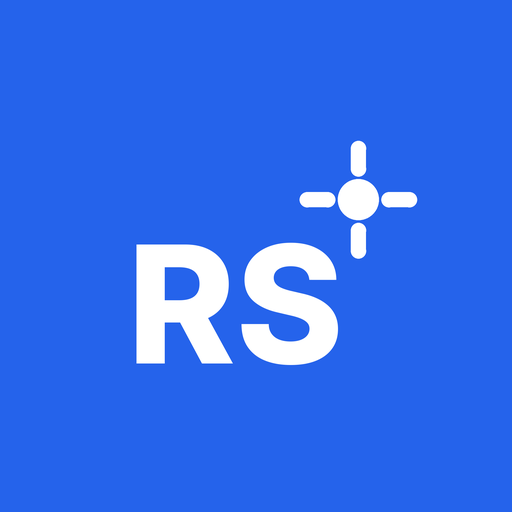
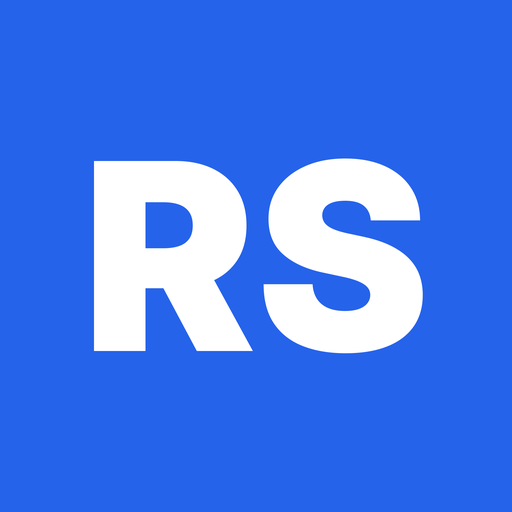
Redraw the RS mark as a bold monogram, from one include
Inter Black "RS" filling its tile replaces the small "RS" with a crosshair
sparkle, which turned to noise at navbar and tab size. The fifteen pasted
copies of the inline SVG become includes/rs_mark.html; the app icons are
redrawn to match. Landing captures and the share card are re-shot, and
landing_shots.py now dismisses the one-time install card before capturing.

Claude-Session: https://claude.ai/code/session_01H86mCgziRATYhTT6JvfZRs

Changed region(s): [[0.1562, 0.25, 0.8438, 0.7188]]

diff --git a/templates/landing.html b/templates/landing.html
@@ -42,11 +42,7 @@
             <div class="flex items-center justify-between">
                 <a href="/" class="flex items-center space-x-2">
                     <div class="w-9 h-9 bg-blue-600 rounded-lg flex items-center justify-center">
-                        <svg viewBox="0 0 40 40" class="w-6 h-6">
-                            <text x="20" y="26" text-anchor="middle" fill="white" font-size="16" font-weight="800" font-family="Inter, sans-serif">RS</text>
-                            <circle cx="32" cy="10" r="2" fill="white"/>
-                            <path d="M32 5 L32 7 M32 13 L32 15 M27 10 L29 10 M35 10 L37 10" stroke="white" stroke-width="1.5" stroke-linecap="round"/>
-                        </svg>
+                        {% include "includes/rs_mark.html" with size="w-6 h-6" %}
                     </div>
                     <span class="text-xl font-bold text-gray-900">RS Systems</span>
                 </a>
@@ -421,11 +417,7 @@
             <div class="flex flex-col md:flex-row justify-between items-center">
                 <div class="flex items-center space-x-2 mb-6 md:mb-0">
                     <div class="w-9 h-9 bg-blue-600 rounded-lg flex items-center justify-center">
-                        <svg viewBox="0 0 40 40" class="w-6 h-6">
-                            <text x="20" y="26" text-anchor="middle" fill="white" font-size="16" font-weight="800" font-family="Inter, sans-serif">RS</text>
-                            <circle cx="32" cy="10" r="2" fill="white"/>
-                            <path d="M32 5 L32 7 M32 13 L32 15 M27 10 L29 10 M35 10 L37 10" stroke="white" stroke-width="1.5" stroke-linecap="round"/>
-                        </svg>
+                        {% include "includes/rs_mark.html" with size="w-6 h-6" %}
                     </div>
                     <span class="text-lg font-bold text-white">RS Systems</span>
                 </div>

diff --git a/templates/saas/base_public.html b/templates/saas/base_public.html
@@ -26,11 +26,7 @@
             <div class="flex justify-between h-16 items-center">
                 <a href="/" class="flex items-center space-x-2">
                     <div class="w-8 h-8 bg-blue-600 rounded-lg flex items-center justify-center">
-                        <svg viewBox="0 0 40 40" class="w-5 h-5">
-                            <text x="20" y="26" text-anchor="middle" fill="white" font-size="16" font-weight="800" font-family="Inter, sans-serif">RS</text>
-                            <circle cx="32" cy="10" r="2" fill="white"/>
-                            <path d="M32 5 L32 7 M32 13 L32 15 M27 10 L29 10 M35 10 L37 10" stroke="white" stroke-width="1.5" stroke-linecap="round"/>
-                        </svg>
+                        {% include "includes/rs_mark.html" with size="w-5 h-5" %}
                     </div>
                     <span class="text-xl font-bold text-gray-900">RS Systems</span>
                 </a>
@@ -81,11 +77,7 @@
             <div class="flex flex-col md:flex-row justify-between items-center">
                 <div class="flex items-center space-x-2 mb-4 md:mb-0">
                     <div class="w-6 h-6 bg-blue-600 rounded flex items-center justify-center">
-                        <svg viewBox="0 0 40 40" class="w-4 h-4">
-                            <text x="20" y="26" text-anchor="middle" fill="white" font-size="16" font-weight="800" font-family="Inter, sans-serif">RS</text>
-                            <circle cx="32" cy="10" r="2" fill="white"/>
-                            <path d="M32 5 L32 7 M32 13 L32 15 M27 10 L29 10 M35 10 L37 10" stroke="white" stroke-width="1.5" stroke-linecap="round"/>
-                        </svg>
+                        {% include "includes/rs_mark.html" with size="w-4 h-4" %}
                     </div>
                     <span class="font-semibold text-gray-900">RS Systems</span>
                 </div>

diff --git a/templates/saas/signup.html b/templates/saas/signup.html
@@ -19,11 +19,7 @@
         </div>
         <div class="max-w-md text-center relative z-10 px-8">
             <div class="w-20 h-20 bg-white/20 rounded-2xl flex items-center justify-center mx-auto mb-8">
-                <svg viewBox="0 0 40 40" class="w-12 h-12">
-                    <text x="20" y="26" text-anchor="middle" fill="white" font-size="16" font-weight="800" font-family="Inter, sans-serif">RS</text>
-                    <circle cx="32" cy="10" r="2" fill="white"/>
-                    <path d="M32 5 L32 7 M32 13 L32 15 M27 10 L29 10 M35 10 L37 10" stroke="white" stroke-width="1.5" stroke-linecap="round"/>
-                </svg>
+                {% include "includes/rs_mark.html" with size="w-12 h-12" %}
             </div>
             <h1 class="text-4xl font-bold text-white mb-4">RS Systems</h1>
             <p class="text-xl text-brand-100 mb-8">The complete platform for windshield repair & replacement shops.</p>
@@ -62,11 +58,7 @@
             <!-- Mobile branding -->
             <div class="lg:hidden text-center mb-8">
                 <div class="w-14 h-14 bg-brand-600 rounded-xl flex items-center justify-center mx-auto mb-4">
-                    <svg viewBox="0 0 40 40" class="w-8 h-8">
-                        <text x="20" y="26" text-anchor="middle" fill="white" font-size="16" font-weight="800" font-family="Inter, sans-serif">RS</text>
-                        <circle cx="32" cy="10" r="2" fill="white"/>
-                        <path d="M32 5 L32 7 M32 13 L32 15 M27 10 L29 10 M35 10 L37 10" stroke="white" stroke-width="1.5" stroke-linecap="round"/>
-                    </svg>
+                    {% include "includes/rs_mark.html" with size="w-8 h-8" %}
                 </div>
                 <h1 class="text-3xl font-bold text-gray-900">RS Systems</h1>
                 <p class="text-gray-600 mt-1">Start your free 30-day trial</p>

diff --git a/templates/saas/login.html b/templates/saas/login.html
@@ -13,11 +13,7 @@
         </div>
         <div class="max-w-md text-center relative z-10 px-8">
             <div class="w-20 h-20 bg-white/20 rounded-2xl flex items-center justify-center mx-auto mb-8">
-                <svg viewBox="0 0 40 40" class="w-12 h-12">
-                    <text x="20" y="26" text-anchor="middle" fill="white" font-size="16" font-weight="800" font-family="Inter, sans-serif">RS</text>
-                    <circle cx="32" cy="10" r="2" fill="white"/>
-                    <path d="M32 5 L32 7 M32 13 L32 15 M27 10 L29 10 M35 10 L37 10" stroke="white" stroke-width="1.5" stroke-linecap="round"/>
-                </svg>
+                {% include "includes/rs_mark.html" with size="w-12 h-12" %}
             </div>
             <h1 class="text-4xl font-bold text-white mb-4">RS Systems</h1>
             <p class="text-xl text-brand-100 mb-8">The complete platform for windshield repair & replacement shops.</p>
@@ -56,11 +52,7 @@
             <!-- Mobile branding -->
             <div class="lg:hidden text-center mb-8">
                 <div class="w-14 h-14 bg-brand-600 rounded-xl flex items-center justify-center mx-auto mb-4">
-                    <svg viewBox="0 0 40 40" class="w-8 h-8">
-                        <text x="20" y="26" text-anchor="middle" fill="white" font-size="16" font-weight="800" font-family="Inter, sans-serif">RS</text>
-                        <circle cx="32" cy="10" r="2" fill="white"/>
-                        <path d="M32 5 L32 7 M32 13 L32 15 M27 10 L29 10 M35 10 L37 10" stroke="white" stroke-width="1.5" stroke-linecap="round"/>
-                    </svg>
+                    {% include "includes/rs_mark.html" with size="w-8 h-8" %}
                 </div>
                 <h1 class="text-3xl font-bold text-gray-900">RS Systems</h1>
                 <p class="text-gray-600 mt-1">Log in to your account</p>

diff --git a/templates/saas/invite_accept.html b/templates/saas/invite_accept.html
@@ -17,11 +17,7 @@
         </div>
         <div class="max-w-md text-center relative z-10 px-8">
             <div class="w-20 h-20 bg-white/20 rounded-2xl flex items-center justify-center mx-auto mb-8">
-                <svg viewBox="0 0 40 40" class="w-12 h-12">
-                    <text x="20" y="26" text-anchor="middle" fill="white" font-size="16" font-weight="800" font-family="Inter, sans-serif">RS</text>
-                    <circle cx="32" cy="10" r="2" fill="white"/>
-                    <path d="M32 5 L32 7 M32 13 L32 15 M27 10 L29 10 M35 10 L37 10" stroke="white" stroke-width="1.5" stroke-linecap="round"/>
-                </svg>
+                {% include "includes/rs_mark.html" with size="w-12 h-12" %}
             </div>
             <h1 class="text-4xl font-bold text-white mb-4">RS Systems</h1>
             <p class="text-xl text-brand-100 mb-8">You've been invited to join a team!</p>
@@ -54,11 +50,7 @@
             <!-- Mobile branding -->
             <div class="lg:hidden text-center mb-8">
                 <div class="w-14 h-14 bg-brand-600 rounded-xl flex items-center justify-center mx-auto mb-4">
-                    <svg viewBox="0 0 40 40" class="w-8 h-8">
-                        <text x="20" y="26" text-anchor="middle" fill="white" font-size="16" font-weight="800" font-family="Inter, sans-serif">RS</text>
-                        <circle cx="32" cy="10" r="2" fill="white"/>
-                        <path d="M32 5 L32 7 M32 13 L32 15 M27 10 L29 10 M35 10 L37 10" stroke="white" stroke-width="1.5" stroke-linecap="round"/>
-                    </svg>
+                    {% include "includes/rs_mark.html" with size="w-8 h-8" %}
                 </div>
                 <h1 class="text-3xl font-bold text-gray-900">RS Systems</h1>
             </div>

diff --git a/templates/base_app.html b/templates/base_app.html
@@ -55,11 +55,7 @@
                         <img src="{{ request.tenant.logo.url }}" alt="{{ request.tenant.name }}" class="h-11 sm:h-14 w-auto max-w-[9rem] sm:max-w-[15rem] object-contain flex-shrink-0">
                         {% else %}
                         <div class="w-10 h-10 bg-brand-600 rounded-lg flex items-center justify-center flex-shrink-0">
-                            <svg viewBox="0 0 40 40" class="w-6 h-6">
-                                <text x="20" y="26" text-anchor="middle" fill="white" font-size="16" font-weight="800" font-family="Inter, sans-serif">RS</text>
-                                <circle cx="32" cy="10" r="2" fill="white"/>
-                                <path d="M32 5 L32 7 M32 13 L32 15 M27 10 L29 10 M35 10 L37 10" stroke="white" stroke-width="1.5" stroke-linecap="round"/>
-                            </svg>
+                            {% include "includes/rs_mark.html" with size="w-6 h-6" %}
                         </div>
                         {% endif %}
                         <span class="text-xl font-bold text-gray-900 hidden sm:inline truncate max-w-[14rem]">

diff --git a/templates/registration/password_reset_form.html b/templates/registration/password_reset_form.html
@@ -7,11 +7,7 @@
     <div class="w-full max-w-md">
         <div class="text-center mb-8">
             <div class="w-14 h-14 bg-brand-600 rounded-xl flex items-center justify-center mx-auto mb-4">
-                <svg viewBox="0 0 40 40" class="w-8 h-8">
-                    <text x="20" y="26" text-anchor="middle" fill="white" font-size="16" font-weight="800" font-family="Inter, sans-serif">RS</text>
-                    <circle cx="32" cy="10" r="2" fill="white"/>
-                    <path d="M32 5 L32 7 M32 13 L32 15 M27 10 L29 10 M35 10 L37 10" stroke="white" stroke-width="1.5" stroke-linecap="round"/>
-                </svg>
+                {% include "includes/rs_mark.html" with size="w-8 h-8" %}
             </div>
             <h1 class="text-2xl font-bold text-gray-900">Reset your password</h1>
             <p class="text-gray-500 mt-2">Enter your email address and we'll send you a link to reset your password.</p>

diff --git a/templates/404.html b/templates/404.html
@@ -14,11 +14,7 @@
             <div class="flex items-center h-16">
                 <a href="/" class="flex items-center space-x-2">
                     <div class="w-8 h-8 bg-brand-600 rounded-lg flex items-center justify-center">
-                        <svg viewBox="0 0 40 40" class="w-5 h-5">
-                            <text x="20" y="26" text-anchor="middle" fill="white" font-size="16" font-weight="800" font-family="Inter, sans-serif">RS</text>
-                            <circle cx="32" cy="10" r="2" fill="white"/>
-                            <path d="M32 5 L32 7 M32 13 L32 15 M27 10 L29 10 M35 10 L37 10" stroke="white" stroke-width="1.5" stroke-linecap="round"/>
-                        </svg>
+                        {% include "includes/rs_mark.html" with size="w-5 h-5" %}
                     </div>
                     <span class="text-xl font-bold text-gray-900">RS Systems</span>
                 </a>

diff --git a/templates/500.html b/templates/500.html
@@ -14,11 +14,7 @@
             <div class="flex items-center h-16">
                 <a href="/" class="flex items-center space-x-2">
                     <div class="w-8 h-8 bg-brand-600 rounded-lg flex items-center justify-center">
-                        <svg viewBox="0 0 40 40" class="w-5 h-5">
-                            <text x="20" y="26" text-anchor="middle" fill="white" font-size="16" font-weight="800" font-family="Inter, sans-serif">RS</text>
-                            <circle cx="32" cy="10" r="2" fill="white"/>
-                            <path d="M32 5 L32 7 M32 13 L32 15 M27 10 L29 10 M35 10 L37 10" stroke="white" stroke-width="1.5" stroke-linecap="round"/>
-                        </svg>
+                        {% include "includes/rs_mark.html" with size="w-5 h-5" %}
                     </div>
                     <span class="text-xl font-bold text-gray-900">RS Systems</span>
                 </a>

diff --git a/templates/saas/pricing.html b/templates/saas/pricing.html
@@ -15,11 +15,7 @@
             <div class="flex items-center justify-between h-16">
                 <a href="/" class="flex items-center gap-2 font-bold text-lg text-gray-900">
                     <div class="w-8 h-8 bg-blue-600 rounded-lg flex items-center justify-center">
-                        <svg viewBox="0 0 40 40" class="w-5 h-5">
-                            <text x="20" y="26" text-anchor="middle" fill="white" font-size="16" font-weight="800" font-family="Inter, sans-serif">RS</text>
-                            <circle cx="32" cy="10" r="2" fill="white"/>
-                            <path d="M32 5 L32 7 M32 13 L32 15 M27 10 L29 10 M35 10 L37 10" stroke="white" stroke-width="1.5" stroke-linecap="round"/>
-                        </svg>
+                        {% include "includes/rs_mark.html" with size="w-5 h-5" %}
                     </div>
                     RS Systems
                 </a>

diff --git a/templates/includes/rs_mark.html b/templates/includes/rs_mark.html
@@ -1,0 +1,14 @@
+{% comment %}
+The RS Systems mark: a bold monogram, nothing else. Drawn white, so it goes on
+a filled tile — the caller supplies the tile and passes the SVG's size:
+
+    {% include "includes/rs_mark.html" with size="w-6 h-6" %}
+
+One file because the mark used to be pasted into fifteen places, which is
+fifteen places to forget when it changes. The home-screen icons are the same
+letters at the same weight, drawn by scripts/app_icons.py — change both.
+
+The numbers: Inter Black "RS" is 1.334em wide with its ink centred 0.364em
+above the baseline, so 28 units fills the 40-unit box edge to edge (37.4) and
+a baseline at 30.2 centres it.
+{% endcomment %}<svg viewBox="0 0 40 40" class="{{ size }}" aria-hidden="true"><text x="20" y="30.2" text-anchor="middle" fill="white" font-size="28" font-weight="900" font-family="Inter, sans-serif">RS</text></svg>

diff --git a/scripts/app_icons.py b/scripts/app_icons.py
@@ -7,12 +7,12 @@ Writes `static/images/app/*.png`. Commit the output.
 
 WHY A SCRIPT AND NOT AN EXPORTED IMAGE
 --------------------------------------
-The RS mark exists only as an inline SVG in the shells (`base_app.html`,
-`saas/login.html`, `landing.html`) — there is no logo file. The one image in
+The RS mark exists only as an inline SVG (`templates/includes/rs_mark.html`)
+— there is no logo file. The one image in
 `static/images/` that looks like one, `rs_logo.jpg`, is Rockstar Windshield
 Repair's logo: a shop's, not the platform's. Putting it on every owner's home
 screen would be the same leak as the 2026-09-18 email signature. So the icon is
-drawn here from the same geometry the shells use, in the same Inter the app
+drawn here as the same letters at the same weight, in the same Inter the app
 ships, and can be redrawn when the mark changes.
 
 WHAT EACH FILE IS FOR
@@ -38,14 +38,11 @@ DEST = ROOT / 'static' / 'images' / 'app'
 TILE = (37, 99, 235)
 WHITE = (255, 255, 255)
 
-# The shells draw the mark in a 40-unit viewBox at 60% of its tile, which reads
-# fine beside a wordmark and too small alone on a home screen. 80% keeps the
-# far corner of the sparkle 0.37 of the width from centre — inside the 0.4
-# maskable safe zone.
-MARK_SHARE = 0.8
-# Centre of the drawn mark in viewBox units (the letters plus the sparkle sit
-# up and to the right of the viewBox's own centre).
-MARK_CENTRE = (22, 15.5)
+# The mark is Inter Black "RS" and nothing else (templates/includes/rs_mark.html).
+WEIGHT = 900
+# Letter height as a share of the tile. At 0.51 the letters span 68% of the
+# width, so their corners sit 0.38 from centre — inside the 0.4 maskable zone.
+FONT_SHARE = 0.51
 SUPERSAMPLE = 4
 
 
@@ -58,27 +55,13 @@ def draw_icon(size, rounded):
     else:
         d.rectangle([0, 0, s, s], fill=TILE)
 
-    u = s * MARK_SHARE / 40          # one viewBox unit, in pixels
-    ox = s / 2 - MARK_CENTRE[0] * u
-    oy = s / 2 - MARK_CENTRE[1] * u
-
-    def pt(x, y):
-        return (ox + x * u, oy + y * u)
-
-    font = ImageFont.truetype(str(FONT), int(16 * u))
-    font.set_variation_by_axes([800])
-    d.text(pt(20, 26), 'RS', font=font, fill=WHITE, anchor='ms')
-
-    # The sparkle: a dot and four ticks, as in the shells' SVG.
-    cx, cy = pt(32, 10)
-    r = 2 * u
-    d.ellipse([cx - r, cy - r, cx + r, cy + r], fill=WHITE)
-    w = max(1, round(1.5 * u))
-    for x1, y1, x2, y2 in ((32, 5, 32, 7), (32, 13, 32, 15), (27, 10, 29, 10), (35, 10, 37, 10)):
-        a, b = pt(x1, y1), pt(x2, y2)
-        d.line([a, b], fill=WHITE, width=w)
-        for px, py in (a, b):       # round caps
-            d.ellipse([px - w / 2, py - w / 2, px + w / 2, py + w / 2], fill=WHITE)
+    font = ImageFont.truetype(str(FONT), int(s * FONT_SHARE))
+    font.set_variation_by_axes([WEIGHT])
+    # Centre the ink, not the line box: 'mm' centres on ascender-to-descender,
+    # which sits capitals visibly high.
+    left, top, right, bottom = d.textbbox((0, 0), 'RS', font=font, anchor='ls')
+    d.text(((s - (right + left)) / 2, (s - (bottom + top)) / 2), 'RS',
+           font=font, fill=WHITE, anchor='ls')
 
     return img.resize((size, size), Image.LANCZOS)
 
